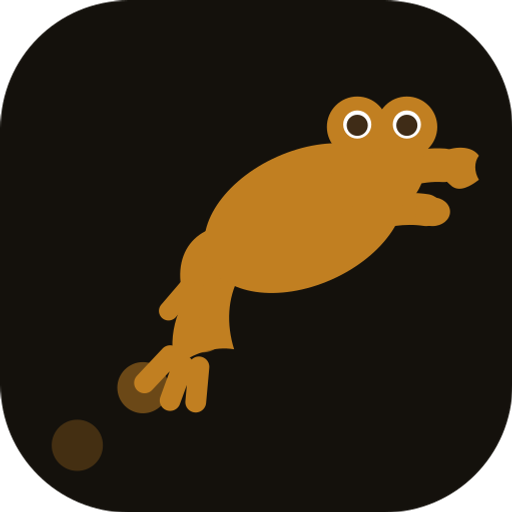
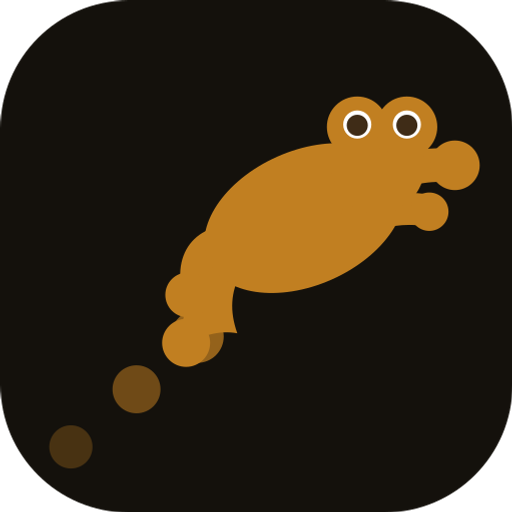
Simplify the frog's hands and feet to plain round blobs
Drop the webbed-paddle path and the stroke-toe fans. Each arm and leg
now ends in a single filled circle that overlaps the limb, so hands and
feet stay obviously attached at any size. Retune the hop trail so it
grows toward the frog and clears the rear feet.

icon.svg / icon-maskable.svg updated to match; PNGs + splash regenerated.

diff --git a/src/components/logo.tsx b/src/components/logo.tsx
@@ -16,33 +16,20 @@ export function FrogMark({ className }: { className?: string }) {
       className={cn("size-6", className)}
     >
       {/* trail of hops */}
-      <circle cx="4.8" cy="27.8" r="1.6" fill={brand} opacity={0.28} />
-      <circle cx="8.9" cy="24.2" r="1.6" fill={brand} opacity={0.5} />
-      <circle cx="12.6" cy="20.4" r="1.6" fill={brand} opacity={0.75} />
-      {/* tucked back legs */}
+      <circle cx="4.4" cy="27.9" r="1.35" fill={brand} opacity={0.3} />
+      <circle cx="8.5" cy="24.3" r="1.5" fill={brand} opacity={0.52} />
+      <circle cx="12.3" cy="21" r="1.65" fill={brand} opacity={0.74} />
+      {/* tucked back legs, blunt feet */}
       <path
         d="M15.6 14.2C12.7 13.5 10.6 15.4 11.4 18.4C12.6 17.5 14 17.2 15.2 17.4C14.7 16 14.8 14.9 15.6 14.2Z"
         fill={brand}
       />
       <path
-        d="M12.6 17.4C11.1 18.7 10.4 20.8 10.9 22.9C12.1 22 13.4 21.6 14.6 21.8C14.1 20.2 14.2 18.6 14.9 17.3Z"
+        d="M12.9 17.4C11.7 18.5 11.1 20 11.4 21.7C12.5 20.9 13.7 20.6 14.8 20.8C14.3 19.4 14.4 18.2 15 17.1Z"
         fill={brand}
       />
-      {/* webbed feet */}
-      <path
-        d="M10.6 22.2L9 23.9M11.4 22.8L10.6 25M12.4 22.9L12.2 25.1"
-        stroke={brand}
-        strokeWidth="1.3"
-        strokeLinecap="round"
-        fill="none"
-      />
-      <path
-        d="M11.7 18L10.5 19.4M12.4 18.3L11.8 19.9"
-        stroke={brand}
-        strokeWidth="1.2"
-        strokeLinecap="round"
-        fill="none"
-      />
+      <circle cx="11.7" cy="18.4" r="1.4" fill={brand} />
+      <circle cx="11.6" cy="21.4" r="1.5" fill={brand} />
       {/* body */}
       <ellipse
         cx="19"
@@ -52,26 +39,23 @@ export function FrogMark({ className }: { className?: string }) {
         transform="rotate(-24 19 13.6)"
         fill={brand}
       />
-      {/* reaching arms, webbed front hand + tucked rear fist */}
+      {/* reaching arms with round hands */}
       <path
-        d="M22.2 13.7C23.8 13.1 25.3 12.9 26.6 13.1"
+        d="M22.2 13.7C23.8 13.1 25.3 12.9 26.5 13.1"
         stroke={brand}
         strokeWidth="2"
         strokeLinecap="round"
         fill="none"
       />
       <path
-        d="M22.6 11.6C24.5 10.7 26.2 10.2 27.7 10.3"
+        d="M22.6 11.6C24.5 10.7 26.2 10.2 27.8 10.3"
         stroke={brand}
         strokeWidth="2.1"
         strokeLinecap="round"
         fill="none"
       />
-      <path
-        d="M27.3 9.6C28.4 9 29.5 9.1 29.9 9.7C29.6 10.1 29.6 10.7 29.9 11.2C29.4 11.6 28.7 12 28.2 11.6C27.6 11.1 27 10.3 27.3 9.6Z"
-        fill={brand}
-      />
-      <ellipse cx="27" cy="13.2" rx="1.1" ry="0.9" fill={brand} />
+      <circle cx="26.8" cy="13.2" r="1.2" fill={brand} />
+      <circle cx="28.4" cy="10.3" r="1.55" fill={brand} />
       {/* head */}
       <circle cx="23.6" cy="10.4" r="2.9" fill={brand} />
       <circle cx="22.3" cy="7.9" r="1.9" fill={brand} />
